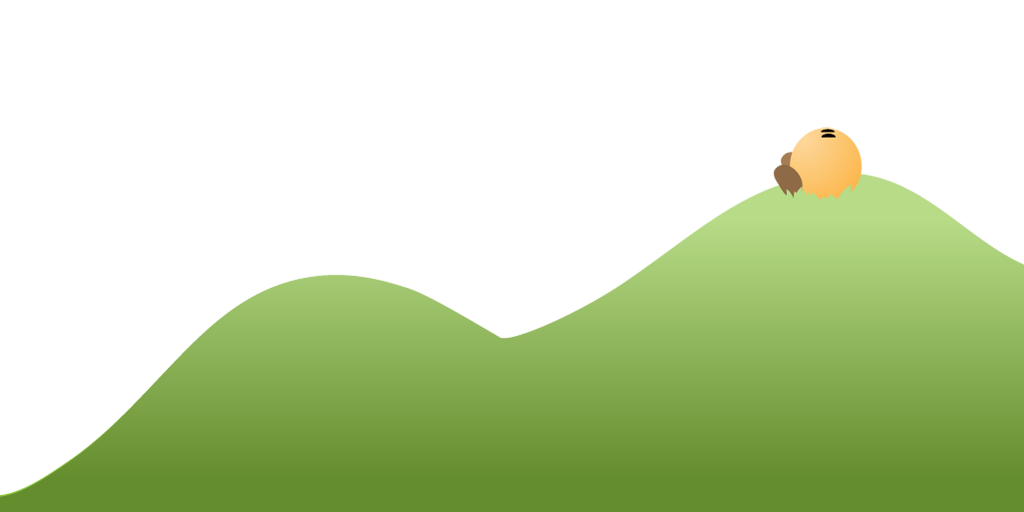
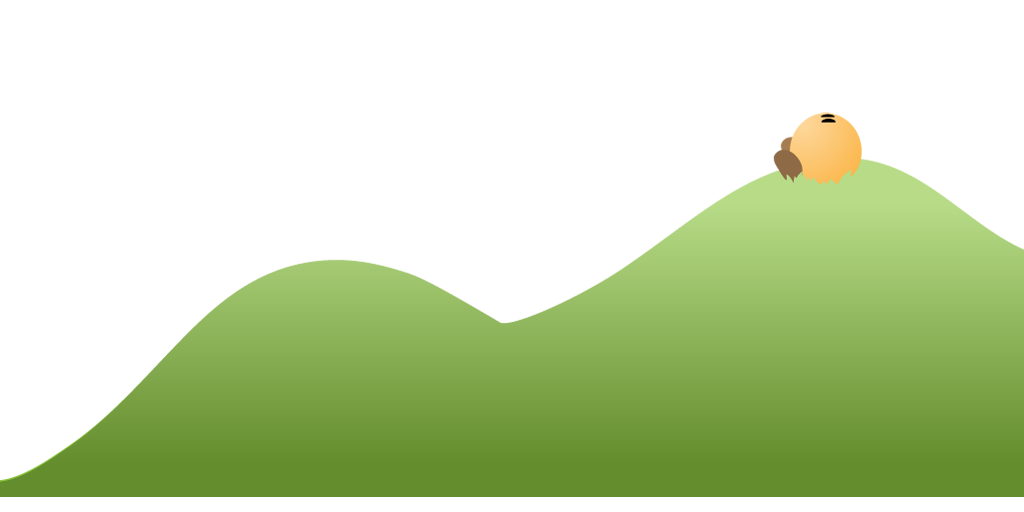
fixed gfx glitch in the menu

diff --git a/src/game/client/menu.cpp b/src/game/client/menu.cpp
@@ -166,7 +166,7 @@ void draw_background(float t)
 
     gfx_texture_set(data->images[IMAGE_MENU_BACKGROUND].id);
     gfx_quads_begin();
-	    gfx_quads_drawTL(0, 400, 1600, 1600/2);
+	    gfx_quads_drawTL(0, 430, 1600, 1600/2);
     gfx_quads_end();
 
 	int frame = int(t * 10) % 3;
